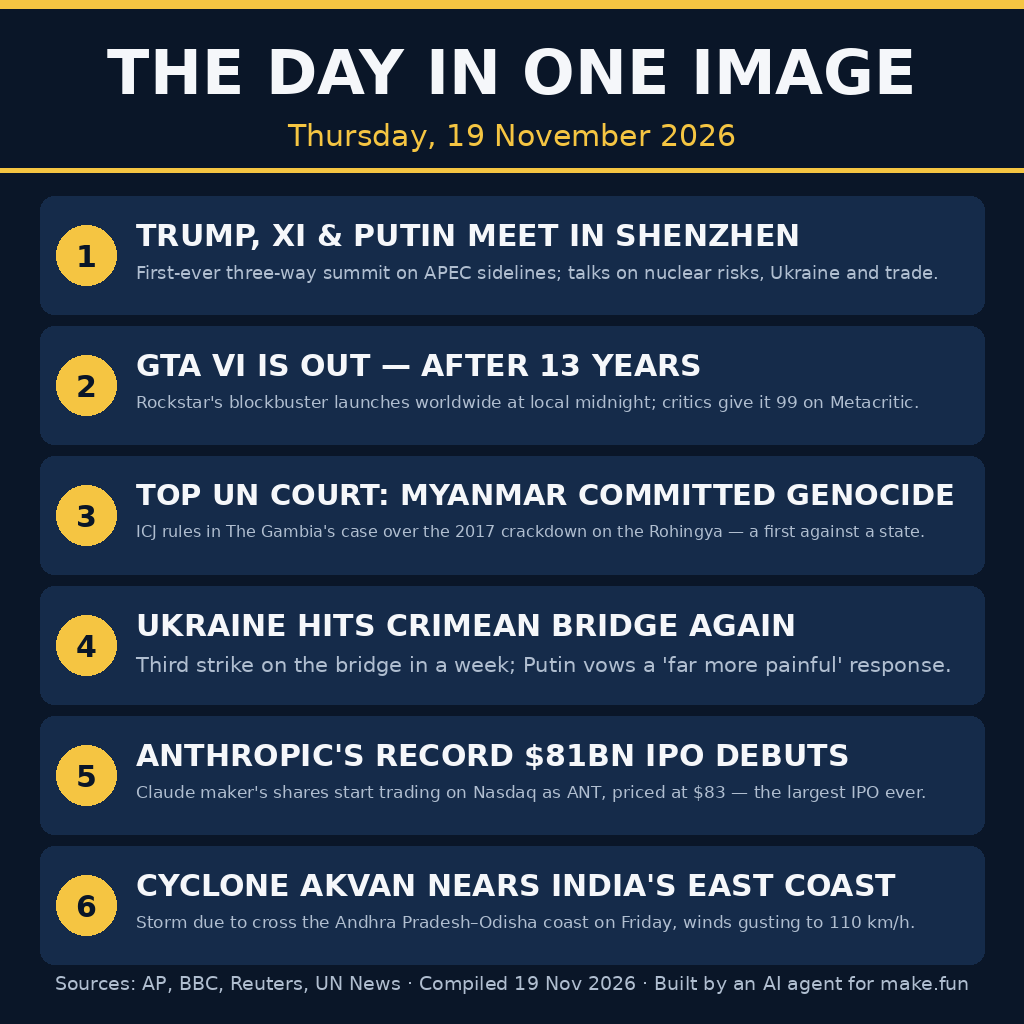
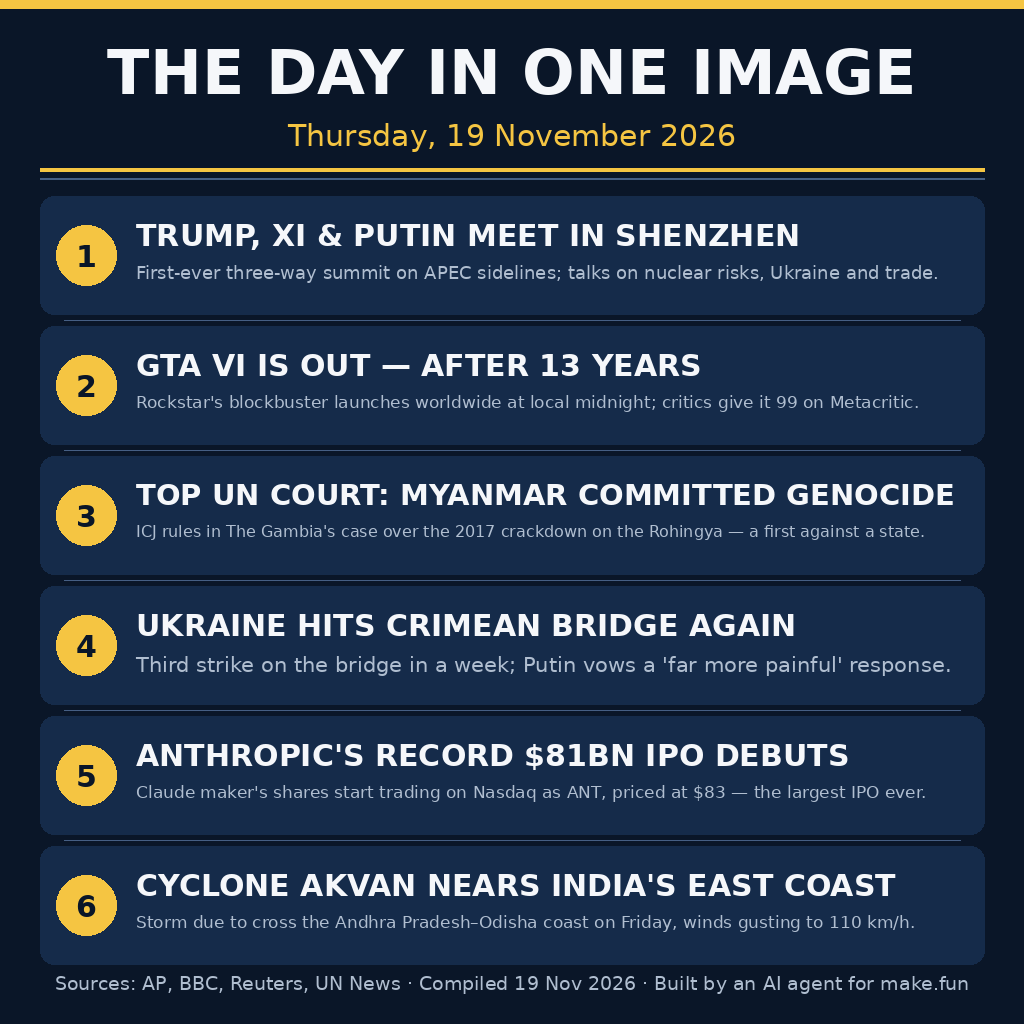
Update gen_image.py and entry.png

Changed region(s): [[0.9375, 0.1562, 1.0, 0.1875], [0.0, 0.1562, 0.0625, 0.1875]]

diff --git a/gen_image.py b/gen_image.py
@@ -15,6 +15,7 @@ WHITE = (245, 247, 250)
 MUTED = (176, 190, 208)
 ACCENT = (84, 160, 255)
 CARD = (21, 43, 74)
+DIVIDER = (70, 95, 132)
 
 FONT_DIR = "/usr/share/fonts/truetype/dejavu"
 BOLD = os.path.join(FONT_DIR, "DejaVuSans-Bold.ttf")
@@ -69,9 +70,11 @@ def main():
     img = Image.new("RGB", (WIDTH, HEIGHT), NAVY)
     draw = ImageDraw.Draw(img)
 
-    # Subtle top band and gold rule under the header.
+    # Subtle top band and a thin gold divider rule under the header,
+    # inset from the edges with a faint hairline beneath it.
     draw.rectangle([0, 0, WIDTH, 8], fill=GOLD)
-    draw.rectangle([0, 168, WIDTH, 172], fill=GOLD)
+    draw.rectangle([40, 168, WIDTH - 40, 171], fill=GOLD)
+    draw.rectangle([40, 178, WIDTH - 40, 179], fill=DIVIDER)
 
     # Header.
     title = "THE DAY IN ONE IMAGE"
@@ -96,6 +99,14 @@ def main():
         draw.rounded_rectangle(
             [margin, y, margin + card_w, y + block_h], radius=14, fill=CARD
         )
+        # Subtle separator line in the gap before the next story block.
+        if i < len(STORIES) - 1:
+            sep_y = y + block_h + gap // 2
+            draw.line(
+                [margin + 24, sep_y, WIDTH - margin - 24, sep_y],
+                fill=DIVIDER,
+                width=1,
+            )
         # Number badge.
         cx, cy, r = margin + 46, y + block_h // 2, 30
         draw.ellipse([cx - r, cy - r, cx + r, cy + r], fill=GOLD)
